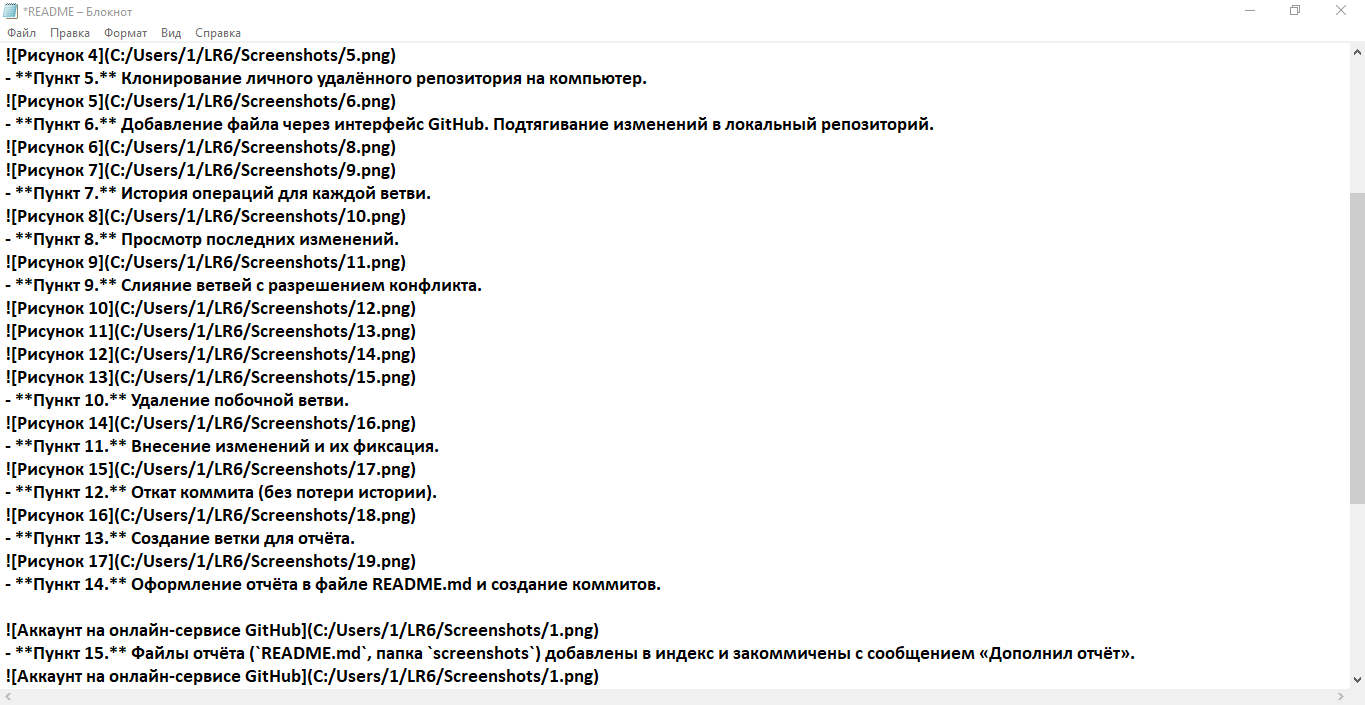
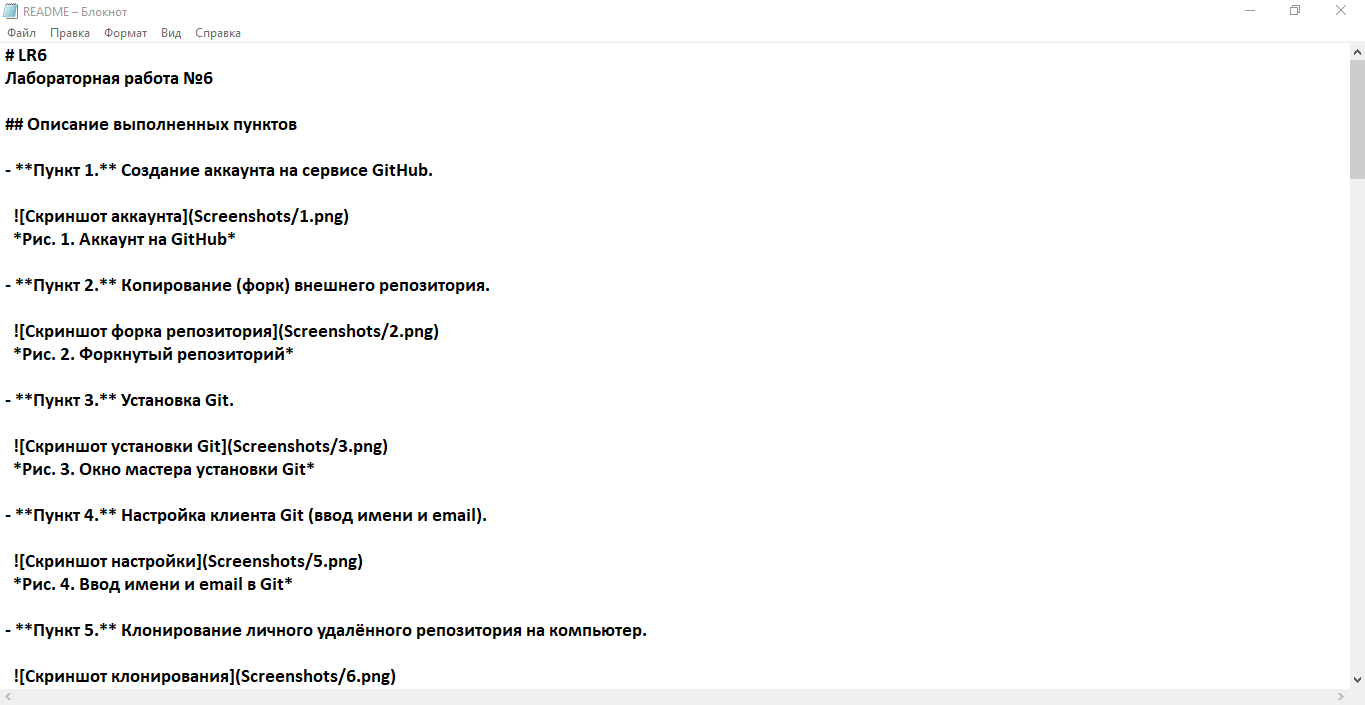
Самый окончательный финал :)

diff --git a/README.md b/README.md
@@ -3,45 +3,106 @@
 
 ## Описание выполненных пунктов
 
-- **Пункт 1.** Создание аккаунта на сервисе GitHub.
-![Рисунок 1](C:/Users/1/LR6/Screenshots/1.png) Рисунок 1.
-- **Пункт 2.** Копирование (форк) внешнего репозитория.
-![Рисунок 2](C:/Users/1/LR6/Screenshots/2.png)   Рисунок 2.
-- **Пункт 3.** Установка Git.
+- **Пункт 1.** Создание аккаунта на сервисе GitHub.  
 
-![Рисунок 3](C:/Users/1/LR6/Screenshots/3.png) 
-*Рисунок 3.*
-- **Пункт 4.** Настройка клиента Git (ввод имени и email).
-![Рисунок 4](C:/Users/1/LR6/Screenshots/5.png) 
-- **Пункт 5.** Клонирование личного удалённого репозитория на компьютер.
-![Рисунок 5](C:/Users/1/LR6/Screenshots/6.png)   
-- **Пункт 6.** Добавление файла через интерфейс GitHub. Подтягивание изменений в локальный репозиторий.
-![Рисунок 6](C:/Users/1/LR6/Screenshots/8.png)   
-![Рисунок 7](C:/Users/1/LR6/Screenshots/9.png)   
-- **Пункт 7.** История операций для каждой ветви.
-![Рисунок 8](C:/Users/1/LR6/Screenshots/10.png)   
-- **Пункт 8.** Просмотр последних изменений.
-![Рисунок 9](C:/Users/1/LR6/Screenshots/11.png)   
-- **Пункт 9.** Слияние ветвей с разрешением конфликта.
-![Рисунок 10](C:/Users/1/LR6/Screenshots/12.png)   
-![Рисунок 11](C:/Users/1/LR6/Screenshots/13.png)   
-![Рисунок 12](C:/Users/1/LR6/Screenshots/14.png)   
-![Рисунок 13](C:/Users/1/LR6/Screenshots/15.png)   
-- **Пункт 10.** Удаление побочной ветви.
-![Рисунок 14](C:/Users/1/LR6/Screenshots/16.png)   
-- **Пункт 11.** Внесение изменений и их фиксация.
-![Рисунок 15](C:/Users/1/LR6/Screenshots/17.png)   
-- **Пункт 12.** Откат коммита (без потери истории).  
-![Рисунок 16](C:/Users/1/LR6/Screenshots/18.png)   
-- **Пункт 13.** Создание ветки для отчёта.
-![Рисунок 17](C:/Users/1/LR6/Screenshots/19.png)   
-- **Пункт 14.** Оформление отчёта в файле README.md и создание коммитов.
-![Рисунок 18](C:/Users/1/LR6/Screenshots/20.png)   
-![Рисунок 19](C:/Users/1/LR6/Screenshots/21.png)   
-![Рисунок 20](C:/Users/1/LR6/Screenshots/22.png)   
-![Рисунок 21](C:/Users/1/LR6/Screenshots/23.png) 
-- **Пункт 15.** История операций в форматированном виде.
-![Рисунок 22](C:/Users/1/LR6/Screenshots/24.png) 
+  ![Скриншот аккаунта](Screenshots/1.png)  
+  *Рис. 1. Аккаунт на GitHub*
+
+- **Пункт 2.** Копирование (форк) внешнего репозитория.  
+
+  ![Скриншот форка репозитория](Screenshots/2.png)  
+  *Рис. 2. Форкнутый репозиторий*
+
+- **Пункт 3.** Установка Git.  
+
+  ![Скриншот установки Git](Screenshots/3.png)  
+  *Рис. 3. Окно мастера установки Git*
+
+- **Пункт 4.** Настройка клиента Git (ввод имени и email).  
+
+  ![Скриншот настройки](Screenshots/5.png)  
+  *Рис. 4. Ввод имени и email в Git*
+
+- **Пункт 5.** Клонирование личного удалённого репозитория на компьютер.  
+
+  Для дальнейшей работы с локальной копией личного репозитория была создана папка LR6 путём копирования ссылки на сайте GitHub (рис. 5).
+
+  ![Скриншот клонирования](Screenshots/6.png)  
+  *Рис. 5. Результат команды git clone в терминале*
+
+- **Пункт 6.** Добавление файла через интерфейс GitHub. Подтягивание изменений в локальный репозиторий.  
+
+  Для работы с локальным репозиторием при помощи команды cd LR6 был осуществлён вход в папку LR6 (рис. 7).
+
+  ![Скриншот интерфейса](Screenshots/8.png)  
+  *Рис. 6. Интерфейс GitHub после добавления файла*  
+
+  ![Скриншот подтягивания изменений](Screenshots/9.png)  
+  *Рис. 7. Отображение изменений в локальном репозитории*
+
+- **Пункт 7.** История операций для каждой ветви.  
+
+  ![Скриншот истории операций](Screenshots/10.png)  
+  *Рис. 8. История операций отдельных ветвей*
+
+- **Пункт 8.** Просмотр последних изменений.  
+
+  ![Скриншот последних изменений](Screenshots/11.png)  
+  *Рис. 9. Данные о последнем коммите*
+
+- **Пункт 9.** Слияние ветвей с разрешением конфликта.  
+
+  ![Скриншот конфликта](Screenshots/12.png)  
+  *Рис. 10. Обнаружение конфликта при слиянии*  
+
+  ![Скриншот редактирования файла](Screenshots/13.png)  
+  *Рис. 11. Ручное исправление конфликта в коде. Часть 1*  
+
+  ![Скриншот редактирования файла](Screenshots/14.png)  
+  *Рис. 12. Ручное исправление конфликта в коде. Часть 2*  
+
+  ![Скриншот успешного слияния](Screenshots/15.png)  
+  *Рис. 13. Разрешение конфликта*
+
+- **Пункт 10.** Удаление побочной ветви.  
+
+  ![Скриншот удаления ветви](Screenshots/16.png)  
+  *Рис. 14. Удаление ветви ДополнительнаяВетвь*
+
+- **Пункт 11.** Внесение изменений и их фиксация.  
+
+  ![Скриншот внесения изменений](Screenshots/17.png)  
+  *Рис. 15. Изменение файла в редакторе*
+
+- **Пункт 12.** Откат коммита без потери истории.  
+
+  Чтобы релизовать откат коммита безопасным способом, который подразумевает под собой сохранение истории всех коммитов, была применена команда git revert. Результат выполнения данной команды отображён на рис. 16.
+
+  ![Скриншот отката коммита](Screenshots/18.png)  
+  *Рис. 16. Использование git revert для отката изменений*
+
+- **Пункт 13.** Создание ветки для отчёта.  
+
+  ![Скриншот создания ветки](Screenshots/19.png)  
+  *Рис. 17. Создание новой ветки*
+
+- **Пункт 14.** Оформление отчёта в файле README.md и создание коммитов.  
+
+  ![Скриншот оформления README](Screenshots/20.png)  
+  *Рис. 18. Редактирование файла README.md*  
+
+  ![Скриншот коммита](Screenshots/21.png)  
+  *Рис. 19. Осуществление коммита*  
+
+  ![Скриншот коммита](Screenshots/22.png)  
+  *Рис. 20. Осуществление коммита*  
+
+  ![Скриншот коммита](Screenshots/23.png)  
+  *Рис. 21. Осуществление коммита*
+
+- **Пункт 15.** История операций в форматированном виде.  
+
+  История операций, представленная в хронологическом порядке:
 
 	1. **a50ec2a** 2026-11-26 4511в Сыщикова Д.И. Отчёт: пункты 11-16 и лог команд
 	2. **7956d8e** 2026-11-25 4511в Сыщикова Д.И. Отчёт: пункты 6-10
@@ -57,28 +118,27 @@
 	12. **921f53b** 2020-11-21 Kurtyanik Обновление информации
 	13. **c08a654** 2020-11-21 Kurtyanik Файл создан пустым
 	14. **3c6e913** 2020-11-21 Kurtyanik Initial commit
-![Рисунок 23](C:/Users/1/LR6/Screenshots/25.png) 
+
+
+  ![Скриншот коммита](Screenshots/25.png)  
+  *Рис. 22. Финальная фиксация изменений*
+
 - **Пункт 16.** Отправление локальных изменений в сетевое хранилище GitHub.
 
 ## Использованные команды
 
-git config --global user.name "Имя пользователя"
+- git config --global user.name "Имя пользователя"
+- git clone 
+- git add .
+- git pull
+- git show
+- git commit -m "Сообщение"
+- git checkout -b <ветка>
+- git merge <ветка>
+- git revert HEAD
+- git log --oneline
 
-git clone 
+## Выводы
 
-git add .
-
-git pull
-
-git show
-
-git commit -m "Сообщение"
-
-git checkout -b <ветка>
-
-git merge <ветка>
-
-git revert HEAD
-
-git log --oneline
+  В ходе выполнения задания были освоены: работа с репозиториями на GitHub, базовые команды Git, взаимодействие ветвей: их создание, слияние с разрешением конфликта, а также удаление. Итогом работы стал оформленный в синтаксисе Markdown отчёт со скриншотами и историей коммитов, отправленный в сетевое хранилище GitHub.
 
